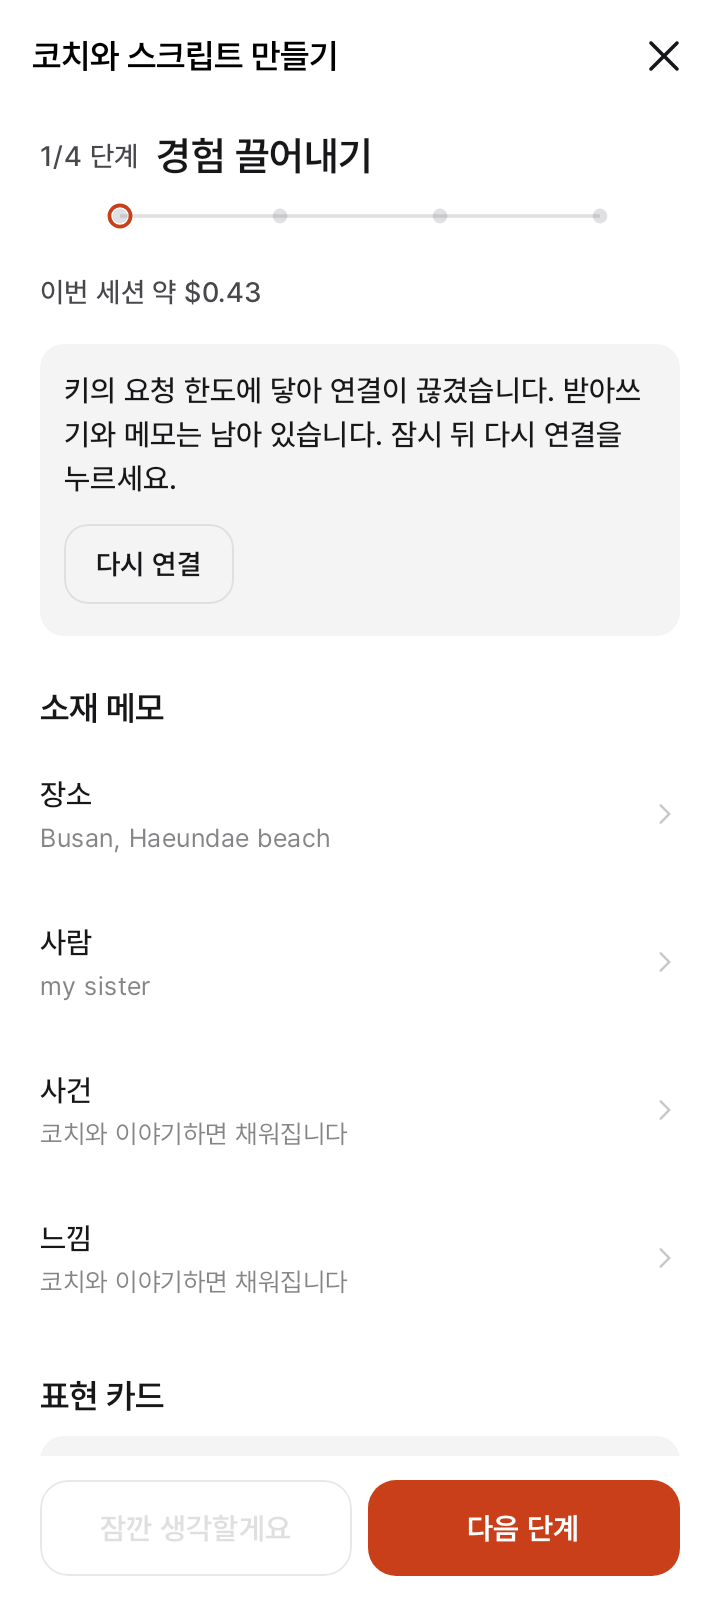
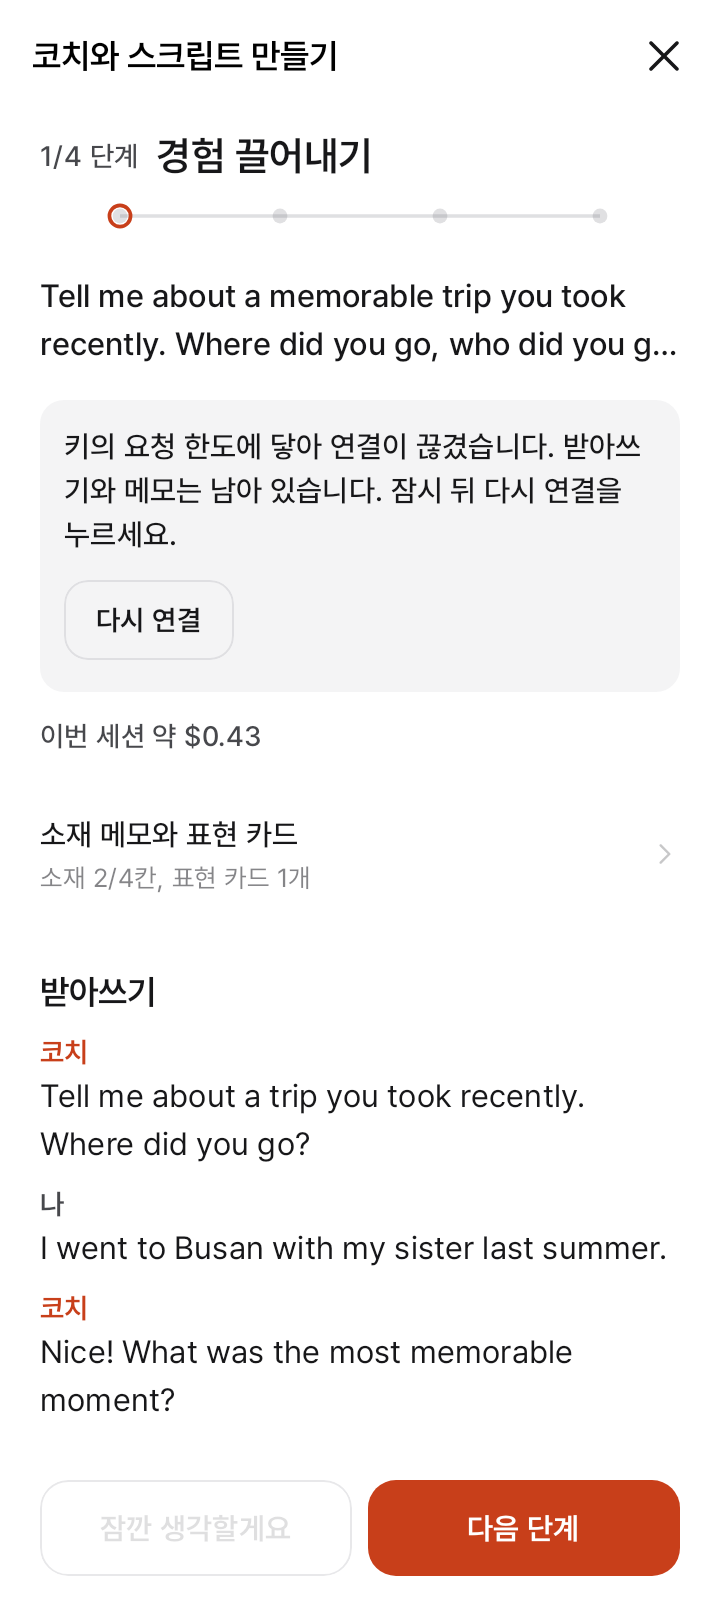
[live-screen] 질문 글을 보이고 받아쓰기가 첫 화면에 오게 메모와 카드를 접는 줄로 묶었다 (#265)

diff --git a/ui/feature-live/src/commonMain/kotlin/io/github/nosorae/aiopic/ui/featurelive/LiveCoachScreen.kt b/ui/feature-live/src/commonMain/kotlin/io/github/nosorae/aiopic/ui/featurelive/LiveCoachScreen.kt
@@ -5,8 +5,10 @@ import androidx.compose.foundation.clickable
 import androidx.compose.foundation.layout.Arrangement
 import androidx.compose.foundation.layout.Column
 import androidx.compose.foundation.layout.Row
+import androidx.compose.foundation.layout.Spacer
 import androidx.compose.foundation.layout.fillMaxSize
 import androidx.compose.foundation.layout.fillMaxWidth
+import androidx.compose.foundation.layout.height
 import androidx.compose.foundation.layout.padding
 import androidx.compose.foundation.lazy.LazyColumn
 import androidx.compose.foundation.lazy.itemsIndexed
@@ -24,6 +26,7 @@ import androidx.compose.runtime.remember
 import androidx.compose.runtime.rememberCoroutineScope
 import androidx.compose.runtime.saveable.rememberSaveable
 import androidx.compose.runtime.setValue
+import androidx.compose.runtime.snapshotFlow
 import androidx.compose.ui.Alignment
 import androidx.compose.ui.Modifier
 import androidx.compose.ui.draw.clip
@@ -31,6 +34,8 @@ import androidx.compose.ui.platform.LocalDensity
 import androidx.compose.ui.semantics.Role
 import androidx.compose.ui.semantics.heading
 import androidx.compose.ui.semantics.semantics
+import androidx.compose.ui.semantics.stateDescription
+import androidx.compose.ui.text.style.TextOverflow
 import androidx.compose.ui.tooling.preview.Preview
 import androidx.lifecycle.Lifecycle
 import androidx.lifecycle.compose.LifecycleEventEffect
@@ -63,6 +68,7 @@ import io.github.nosorae.aiopic.ui.design.MontageTheme
 import io.github.nosorae.aiopic.ui.design.MontageTopBar
 import io.github.nosorae.aiopic.ui.design.MontageVoiceRibbon
 import io.github.nosorae.aiopic.ui.design.icon_normal_close
+import kotlinx.coroutines.flow.first
 import kotlinx.coroutines.launch
 import org.jetbrains.compose.resources.StringResource
 import org.jetbrains.compose.resources.stringResource
@@ -120,25 +126,31 @@ fun LiveCoachScreen(state: LiveCoachUiState, onIntent: (LiveCoachIntent) -> Unit
             state.micDenied -> Notice(stringResource(Res.string.live_mic_denied), action = stringResource(Res.string.live_open_settings), onAction = onOpenSettings)
             coach == null -> if (state.consented == true) Waiting(stringResource(Res.string.live_connecting))
             coach.status == CoachStatus.Finished -> Waiting(stringResource(Res.string.live_script_wait))
-            else -> Conversation(coach, onIntent, onEdit = { editing = it })
+            else -> Conversation(state.question, coach, onIntent, onEdit = { editing = it })
         }
     }
 }
 
 @Composable
-private fun Conversation(coach: CoachState, onIntent: (LiveCoachIntent) -> Unit, onEdit: (Edit) -> Unit) {
+private fun Conversation(question: String, coach: CoachState, onIntent: (LiveCoachIntent) -> Unit, onEdit: (Edit) -> Unit) {
     val list = rememberLazyListState()
-    // 받아쓰기 끝을 보고 있을 때 새 말이 들어오면 따라 내려간다. 위로 올려 메모를 읽는 중이면 끌어내리지 않고, 처음 열 때는 위에서 시작한다.
+    // 받아쓰기가 대화의 중심이라 처음 열면 맨 아래 최근 줄을 보인다. 끝을 보고 있을 때 새 말이 들어오면 따라 내려가고,
+    // 위로 올려 메모를 읽는 중이면 끌어내리지 않는다.
     val atEnd = !list.canScrollForward
     val heard = coach.lines.size to coach.lines.lastOrNull()?.text?.length
-    var seen by remember { mutableStateOf(heard) }
+    var seen by remember { mutableStateOf<Pair<Int, Int?>?>(null) }
     LaunchedEffect(heard) {
-        if (heard != seen && atEnd) list.scrollToItem(maxOf(0, list.layoutInfo.totalItemsCount - 1))
+        if (seen == null || (heard != seen && atEnd)) {
+            val count = snapshotFlow { list.layoutInfo.totalItemsCount }.first { it > 0 }
+            list.scrollToItem(count - 1)
+        }
         seen = heard
     }
-    LazyColumn(Modifier.fillMaxSize(), state = list, verticalArrangement = Arrangement.spacedBy(MontageSpacing.spacing8)) {
-        item { PhaseHeader(coach.phase) }
-        item { CostLine(coach.costUsd) }
+    var notesOpen by rememberSaveable { mutableStateOf(false) }
+    Column(Modifier.fillMaxSize(), verticalArrangement = Arrangement.spacedBy(MontageSpacing.spacing8)) {
+        PhaseHeader(coach.phase)
+        QuestionText(question)
+        // 안내는 받아쓰기를 따라 스크롤되지 않게 위에 고정한다. 끊겼을 때 "다시 연결" 이 늘 보여야 한다.
         val notice = when {
             coach.disconnected != null -> null
             coach.timeWarning -> Res.string.live_time_warning
@@ -146,29 +158,64 @@ private fun Conversation(coach: CoachState, onIntent: (LiveCoachIntent) -> Unit,
             else -> null
         }
         coach.disconnected?.let { reason ->
-            item { Notice(stringResource(droppedMessage(reason)), action = stringResource(Res.string.live_reconnect), onAction = { onIntent(LiveCoachIntent.Resume) }) }
+            Notice(stringResource(droppedMessage(reason)), action = stringResource(Res.string.live_reconnect), onAction = { onIntent(LiveCoachIntent.Resume) })
         }
-        notice?.let { item { Notice(stringResource(it)) } }
-        item { SectionTitle(stringResource(Res.string.live_materials)) }
-        itemsIndexed(MaterialKind.entries) { _, kind ->
-            val text = coach.materials.filter { it.kind == kind }.joinToString(", ") { it.text }
-            val title = kind.label
-            MontageListCell(
-                title = stringResource(title),
-                caption = text.ifEmpty { stringResource(Res.string.live_material_empty) },
-                chevron = true,
-                onClick = { onEdit(Edit(title, text) { LiveCoachIntent.EditMaterial(kind, it) }) },
-            )
+        notice?.let { Notice(stringResource(it)) }
+        LazyColumn(Modifier.weight(1f).fillMaxWidth(), state = list, verticalArrangement = Arrangement.spacedBy(MontageSpacing.spacing8)) {
+            item { CostLine(coach.costUsd) }
+            item {
+                val filled = MaterialKind.entries.count { kind -> coach.materials.any { it.kind == kind } }
+                val state = stringResource(if (notesOpen) Res.string.live_notes_open else Res.string.live_notes_closed)
+                MontageListCell(
+                    title = stringResource(Res.string.live_notes),
+                    caption = stringResource(Res.string.live_notes_summary, filled, MaterialKind.entries.size, coach.expressions.size),
+                    chevron = true,
+                    onClick = { notesOpen = !notesOpen },
+                    modifier = Modifier.semantics { stateDescription = state },
+                )
+            }
+            if (notesOpen) {
+                item { SectionTitle(stringResource(Res.string.live_materials)) }
+                itemsIndexed(MaterialKind.entries) { _, kind ->
+                    val text = coach.materials.filter { it.kind == kind }.joinToString(", ") { it.text }
+                    val title = kind.label
+                    MontageListCell(
+                        title = stringResource(title),
+                        caption = text.ifEmpty { stringResource(Res.string.live_material_empty) },
+                        chevron = true,
+                        onClick = { onEdit(Edit(title, text) { LiveCoachIntent.EditMaterial(kind, it) }) },
+                    )
+                }
+                item { SectionTitle(stringResource(Res.string.live_expressions)) }
+                if (coach.expressions.isEmpty()) item { Body(stringResource(Res.string.live_expressions_empty)) }
+                itemsIndexed(coach.expressions) { index, expression ->
+                    ExpressionCard(expression, onClick = { onEdit(Edit(Res.string.live_expressions, expression.english) { LiveCoachIntent.EditExpression(index, it) }) })
+                }
+            }
+            item { SectionTitle(stringResource(Res.string.live_transcript)) }
+            if (coach.lines.isEmpty()) item { Body(stringResource(Res.string.live_transcript_empty)) }
+            itemsIndexed(coach.lines) { _, line -> TranscriptLine(line) }
+            item { Spacer(Modifier.height(MontageSpacing.spacing8)) }
         }
-        item { SectionTitle(stringResource(Res.string.live_expressions)) }
-        if (coach.expressions.isEmpty()) item { Body(stringResource(Res.string.live_expressions_empty)) }
-        itemsIndexed(coach.expressions) { index, expression ->
-            ExpressionCard(expression, onClick = { onEdit(Edit(Res.string.live_expressions, expression.english) { LiveCoachIntent.EditExpression(index, it) }) })
-        }
-        item { SectionTitle(stringResource(Res.string.live_transcript)) }
-        if (coach.lines.isEmpty()) item { Body(stringResource(Res.string.live_transcript_empty)) }
-        itemsIndexed(coach.lines) { _, line -> TranscriptLine(line) }
     }
+}
+
+/** 지금 답을 만드는 질문. 길면 두 줄로 접고 눌러서 펼친다. */
+@Composable
+private fun QuestionText(question: String) {
+    if (question.isBlank()) return
+    var open by rememberSaveable { mutableStateOf(false) }
+    var overflow by remember { mutableStateOf(false) }
+    val toggle = if (open || overflow) Modifier.clickable(role = Role.Button) { open = !open } else Modifier
+    Text(
+        question,
+        style = MontageTheme.typography.body1.medium,
+        color = MontageTheme.colors.foregroundNeutralPrimary,
+        maxLines = if (open) Int.MAX_VALUE else QUESTION_LINES,
+        overflow = TextOverflow.Ellipsis,
+        onTextLayout = { if (!open) overflow = it.hasVisualOverflow },
+        modifier = Modifier.fillMaxWidth().then(toggle).padding(horizontal = Gutter, vertical = MontageSpacing.spacing8),
+    )
 }
 
 /** 네 단계 가운데 지금 단계. 스크립트 정리는 네 단계를 다 지난 것으로 그린다. */
@@ -386,6 +433,9 @@ private const val TALK_PHASES = 4
 
 private val Gutter = MontageSpacing.spacing20
 
+/** 접은 질문 줄 수. */
+private const val QUESTION_LINES = 2
+
 /** 미리보기와 스크린샷 테스트가 함께 쓰는 고정 상태. */
 internal object LiveCoachSamples {
     private val explore = CoachState(
@@ -403,11 +453,13 @@ internal object LiveCoachSamples {
         usage = mapOf(CoachPhase.Explore to TokenUsage(input = mapOf(Modality.Audio to 120_000, Modality.Text to 8_000), output = mapOf(Modality.Audio to 5_000))),
     )
 
-    val exploring = LiveCoachUiState(consented = true, coach = explore, micLevel = 0.4f)
-    val dropped = LiveCoachUiState(consented = true, coach = explore.copy(disconnected = TransportEvent.Disconnected.RATE_LIMITED))
-    val timeWarning = LiveCoachUiState(consented = true, coach = explore.copy(phase = CoachPhase.Feedback, talkTime = TALK_WARNING), playbackLevel = 0.6f)
+    private const val QUESTION = "Tell me about a memorable trip you took recently. Where did you go, who did you go with, and what made the trip so special for you?"
+
+    val exploring = LiveCoachUiState(question = QUESTION, consented = true, coach = explore, micLevel = 0.4f)
+    val dropped = LiveCoachUiState(question = QUESTION, consented = true, coach = explore.copy(disconnected = TransportEvent.Disconnected.RATE_LIMITED))
+    val timeWarning = LiveCoachUiState(question = QUESTION, consented = true, coach = explore.copy(phase = CoachPhase.Feedback, talkTime = TALK_WARNING), playbackLevel = 0.6f)
     val consent = LiveCoachUiState(consented = false)
-    val finished = LiveCoachUiState(consented = true, coach = explore.copy(phase = CoachPhase.Script, status = CoachStatus.Finished))
+    val finished = LiveCoachUiState(question = QUESTION, consented = true, coach = explore.copy(phase = CoachPhase.Script, status = CoachStatus.Finished))
 }
 
 @Preview

diff --git a/ui/feature-live/src/androidHostTest/kotlin/io/github/nosorae/aiopic/ui/featurelive/LiveCoachScreenshotTest.kt b/ui/feature-live/src/androidHostTest/kotlin/io/github/nosorae/aiopic/ui/featurelive/LiveCoachScreenshotTest.kt
@@ -1,7 +1,9 @@
 package io.github.nosorae.aiopic.ui.featurelive
 
 import androidx.compose.ui.test.junit4.createComposeRule
+import androidx.compose.ui.test.onNodeWithText
 import androidx.compose.ui.test.onRoot
+import androidx.compose.ui.test.performClick
 import androidx.test.ext.junit.runners.AndroidJUnit4
 import com.github.takahirom.roborazzi.captureRoboImage
 import io.github.nosorae.aiopic.ui.design.MontageTheme
@@ -22,14 +24,14 @@ class LiveCoachScreenshotTest {
 
     @Test fun exploring_dark() = still(LiveCoachSamples.exploring, dark = true)
 
-    /** 받아쓰기는 메모와 카드 아래에 있어 긴 화면으로 끝까지 찍는다. */
+    /** 요약 줄을 눌러 소재 메모와 표현 카드를 펼친다. 펼친 목록과 받아쓰기가 함께 보이게 긴 화면으로 찍는다. */
     @Config(qualifiers = "w360dp-h1400dp-xhdpi")
     @Test
-    fun exploring_long() = still(LiveCoachSamples.exploring)
+    fun notesOpen() = still(LiveCoachSamples.exploring, openNotes = true)
 
     @Config(qualifiers = "w360dp-h1400dp-xhdpi")
     @Test
-    fun exploring_long_dark() = still(LiveCoachSamples.exploring, dark = true)
+    fun notesOpen_dark() = still(LiveCoachSamples.exploring, dark = true, openNotes = true)
 
     @Config(fontScale = 2f)
     @Test
@@ -60,11 +62,15 @@ class LiveCoachScreenshotTest {
     @Test fun finished() = still(LiveCoachSamples.finished, millis = 1_200)
 
     /** 물결은 점이 모인 장면이 보이게 [millis] 만큼 넘긴다. 0 이면 첫 장면이다. */
-    private fun still(state: LiveCoachUiState, dark: Boolean = false, millis: Long = 0) {
+    private fun still(state: LiveCoachUiState, dark: Boolean = false, millis: Long = 0, openNotes: Boolean = false) {
         rule.mainClock.autoAdvance = false
         rule.setContent { MontageTheme(darkTheme = dark) { LiveCoachScreen(state, onIntent = {}, onExit = {}) } }
         rule.mainClock.advanceTimeByFrame()
         if (millis > 0) rule.mainClock.advanceTimeBy(millis)
+        if (openNotes) {
+            rule.onNodeWithText("소재 메모와 표현 카드").performClick()
+            rule.mainClock.advanceTimeBy(500)
+        }
         rule.onRoot().captureRoboImage()
     }
 }
